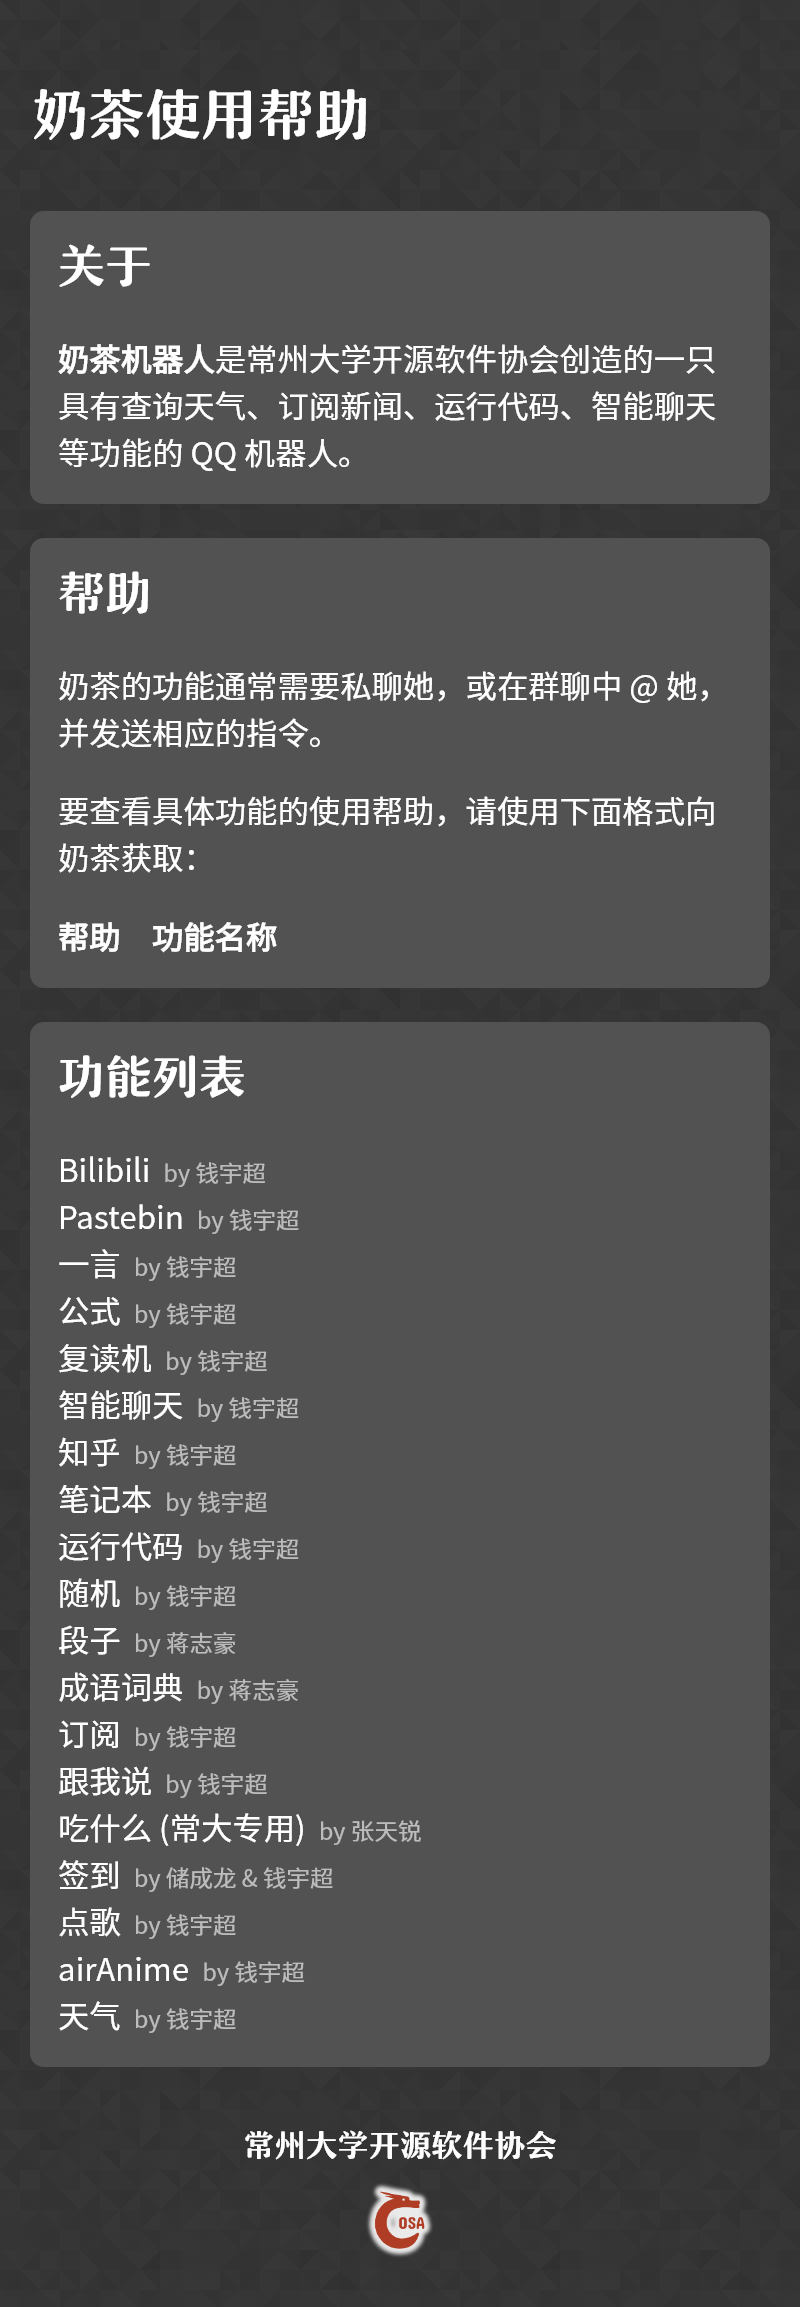
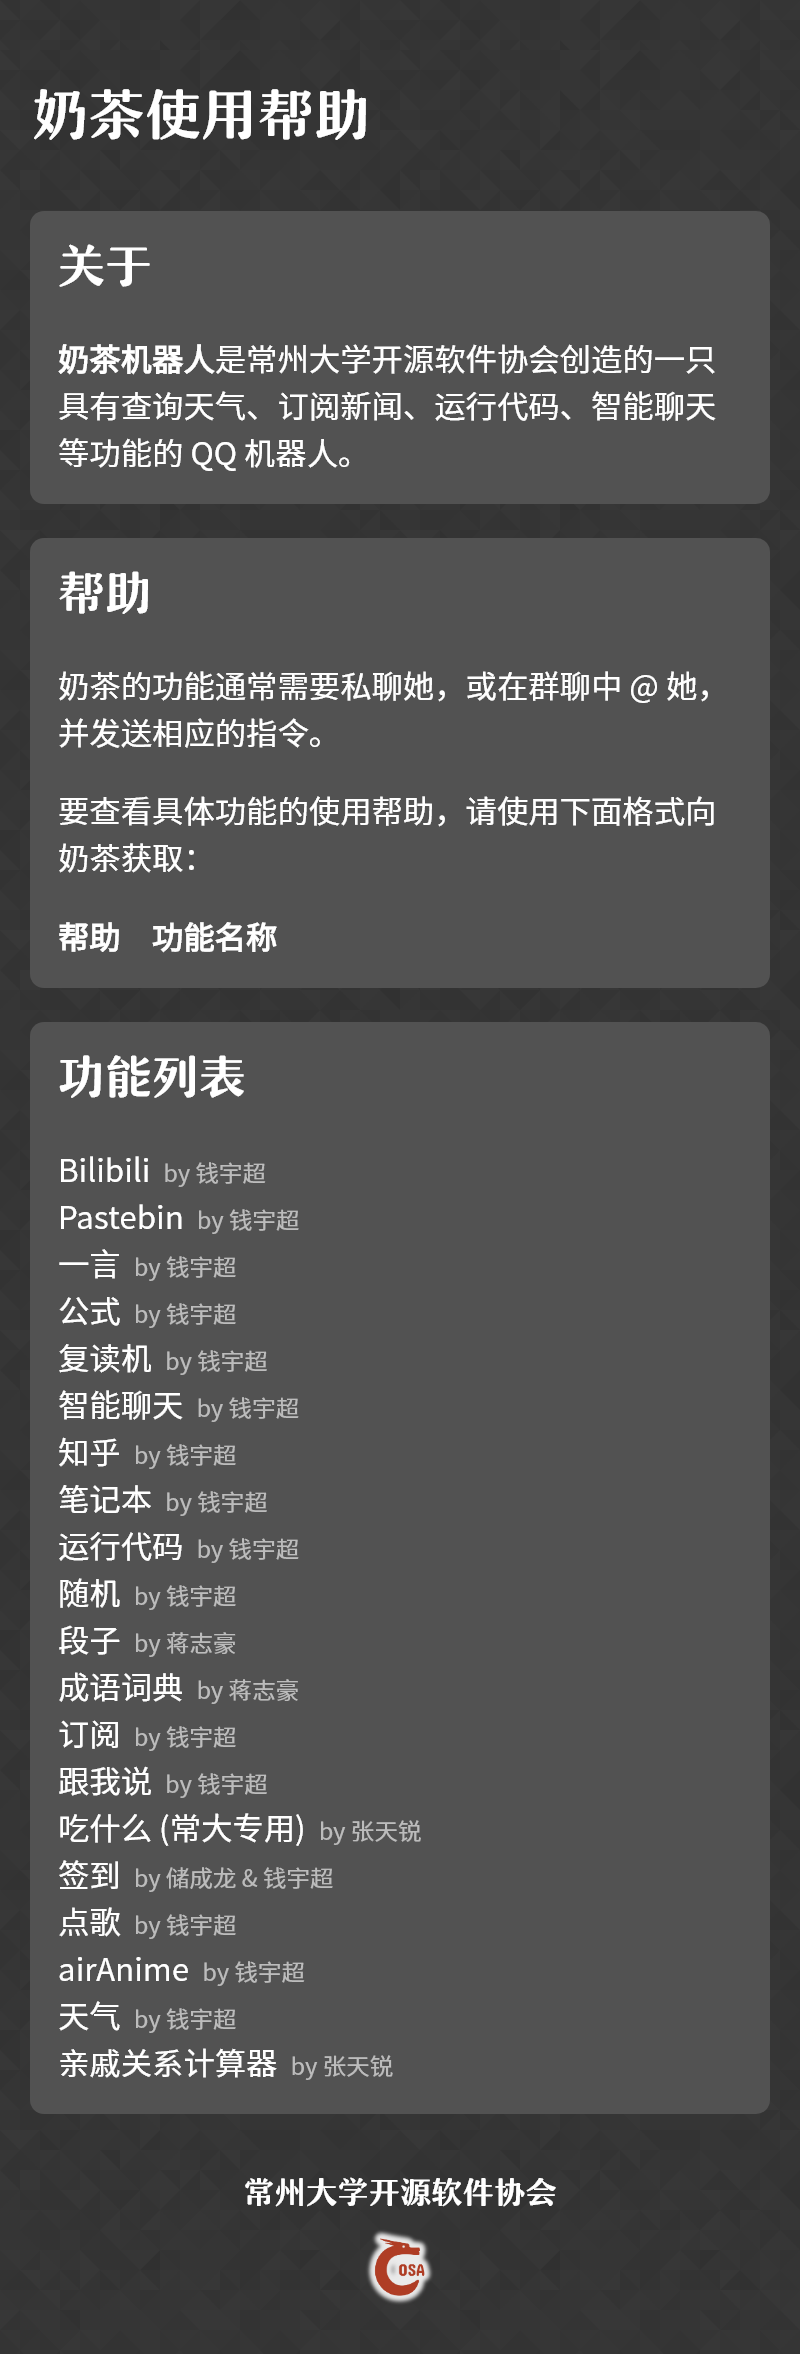
调整亲戚关系计算器功能

diff --git a/manual/亲戚关系计算器.html b/manual/亲戚关系计算器.html
@@ -1,9 +1,9 @@
-<h1>称呼计算器</h1>
+<h1>亲戚关系计算器</h1>
 
 <section>
   <h2>说明</h2>
   <p>
-    本功能用于查不了解的亲戚称呼。
+    本功能用于根据关系计算亲戚的称呼（类似于 MIUI 计算器中的亲戚关系计算）。
   </p>
 </section>
 
@@ -40,7 +40,7 @@
   <div class="bubble-wrapper right">
     <div class="bubble">
       <p>
-        还有
+        嗯
       </p>
     </div>
   </div>
@@ -68,7 +68,7 @@
   <div class="bubble-wrapper right">
     <div class="bubble">
       <p>
-        没了
+        不用了
       </p>
     </div>
   </div>
@@ -84,7 +84,7 @@
 <section class="bg-color-3">
   <h2>触发机制</h2>
   <p>
-    通过关键词「亲戚」「关系」等可以触发本功能。
+    通过关键词「亲戚」「称呼」「关系计算」等可以触发本功能。
   </p>
 </section>
 

diff --git a/manual/index.html b/manual/index.html
@@ -40,6 +40,7 @@
     点歌 <span class="author">by 钱宇超</span><br>
     airAnime <span class="author">by 钱宇超</span><br>
     天气 <span class="author">by 钱宇超</span><br>
+    亲戚关系计算器 <span class="author">by 张天锐</span><br>
   </p>
 </section>
 

diff --git a/aki/plugins/relationship/__init__.py b/aki/plugins/relationship/__init__.py
@@ -1,20 +1,26 @@
 import asyncio
-from .Calculation import get_relation
-from . import expressions as e
+
 from nonebot import on_command, CommandSession
-from nonebot.command.argfilter import extractors, converters
 from nonebot import on_natural_language, NLPSession, IntentCommand
+from nonebot.command.argfilter import extractors, converters
 from nonebot.helpers import render_expression as expr
 
-__plugin_name__ = '称呼计算器'
+from . import expressions as e
+from .relationship import get_relation
+
+__plugin_name__ = '亲戚关系计算器'
 
 
 @on_command('relationship')
 async def _(session: CommandSession):
-    while 1:
+    while True:
         text = session.state.get('text')
 
-        s = 1 if session.ctx['sender']['sex'] == 'male' or 'unknown' else 0  # 若获取不到性别(默认性别为“男”)
+        if session.ctx['sender']['sex'] == 'male' or 'unknown':
+            # 若获取不到性别(默认性别为“男”)
+            s = 1
+        else:
+            s = 0
         r = False
         t = 'default'
 
@@ -29,7 +35,9 @@ async def _(session: CommandSession):
             session.get('text', prompt=expr(e.INPPUT_MESSAGE))
 
         # 计算结果
-        result = '、'.join(get_relation({'text': text, 'sex': s, 'reverse': r, 'type': t}))
+        result = '、'.join(
+            get_relation({'text': text, 'sex': s, 'reverse': r, 'type': t})
+        )
 
         # 输入格式不正确
         if result == '':
@@ -39,21 +47,20 @@ async def _(session: CommandSession):
             continue
 
         # 返回结果
-        retu = expr(e.NAME) + result + expr(e.RE_ASK)
+        reply = f'{expr(e.NAME)}{result}，{expr(e.RE_ASK)}'
         session.get('con',
-                    prompt=retu,
+                    prompt=reply,
                     arg_filters=request_answer_filters)
 
         # 直接结束
         if not session.state['con']:
             session.finish(expr(e.MD_END_TASK))
-
         # 继续计算
         else:
             session.state.pop('text')
             session.state.pop('con')
 
 
-@on_natural_language(keywords={'亲戚', '关系', '称呼', '关系推算'})
+@on_natural_language(keywords={'亲戚', '称呼', '关系推算', '关系计算'})
 async def _(session: NLPSession):
     return IntentCommand(80.0, 'relationship')

diff --git a/aki/plugins/relationship/expressions.py b/aki/plugins/relationship/expressions.py
@@ -1,27 +1,34 @@
-NAME = ('嗯，你该叫他：',
-        '哦~~，他是你',
-        '推算出来了🤗，他是你',
-        '😉哈哈，他是你',
-        '嗷呜嗷呜嗷~，你应该叫他')
+NAME = (
+    '嗯，你该叫他：',
+    '哦~~，他是你',
+    '推算出来了🤗，他是你',
+    '😉哈哈，他是你',
+    '嗷呜嗷呜嗷~，你应该叫他'
+)
 
+RE_ASK = (
+    '还需要继续推算么',
+    '知道了不',
+    '还有不懂的么'
+)
 
-RE_ASK = ('，还需要继续推算么',
-          '，知道了不',
-          '，还有不懂的么')
+MD_END_TASK = (
+    '那好吧',
+    '那就这样吧',
+    '行吧，ByeBye',
+    '好吧',
+    '嗯，那就这样吧'
+)
 
+FAULT_INSERT = (
+    '不对不对，输错了',
+    '哟~，输入的格式不对哦',
+    'No！No！No！格式不对',
+    '貌似他/她跟你不是很熟哦!重输了试试'
+)
 
-MD_END_TASK = ('那好吧',
-               '那就这样吧',
-               '行吧，ByeBye',
-               '好吧',
-               '嗯，那就这样吧')
-
-
-FAULT_INSERT = ('不对不对，输错了',
-                '哟~，输入的格式不对哦',
-                'No！No！No！格式不对',
-                '貌似他/她跟你不是很熟哦!重输了试试')
-
-
-INPPUT_MESSAGE = ('来吧，输个你想推算的关系',
-                  '来，简单输一下那人与你的关系')
+INPPUT_MESSAGE = (
+    '来吧，输个你想推算的关系',
+    '来，简单输一下那人与你的关系',
+    '那人是你的什么亲戚呢？'
+)

diff --git a/aki/plugins/relationship/relationship.py b/aki/plugins/relationship/relationship.py
@@ -1,3 +1,7 @@
+"""
+See https://gitee.com/crossin/snippet/tree/master/relationship.
+"""
+
 import re
 
 _filter = [
